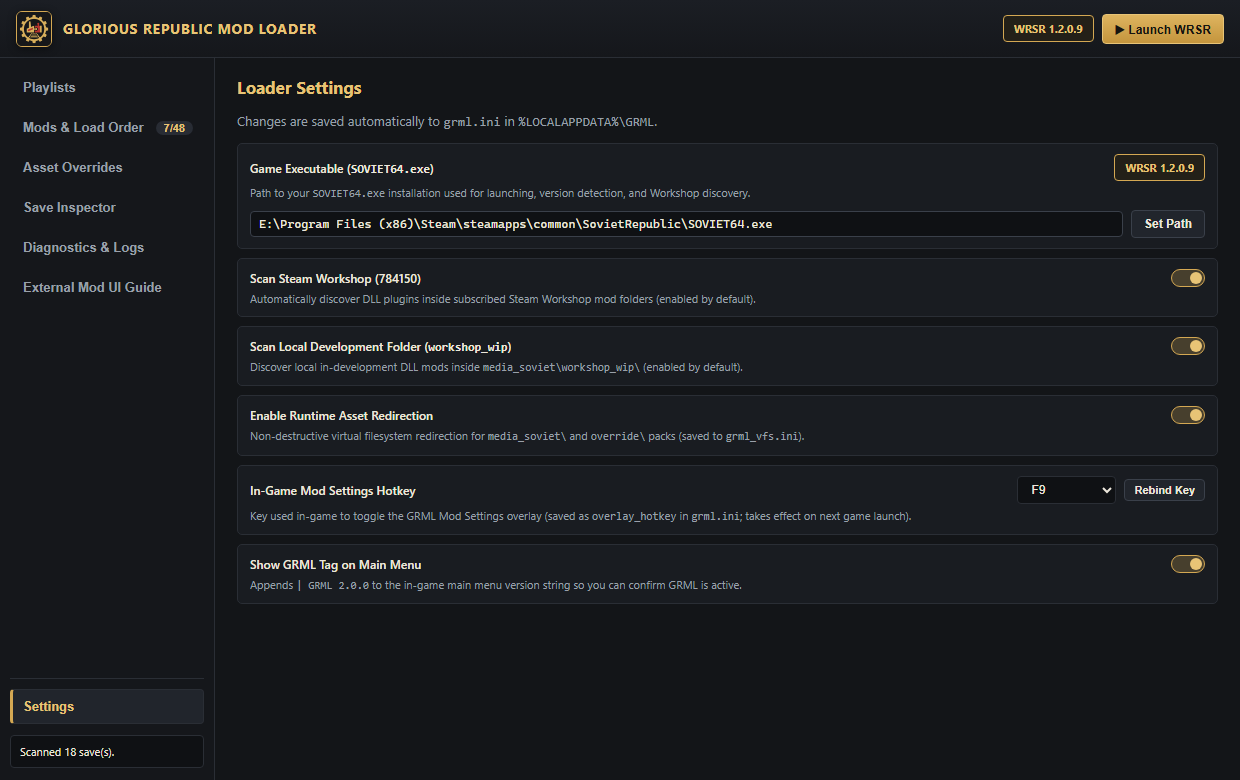
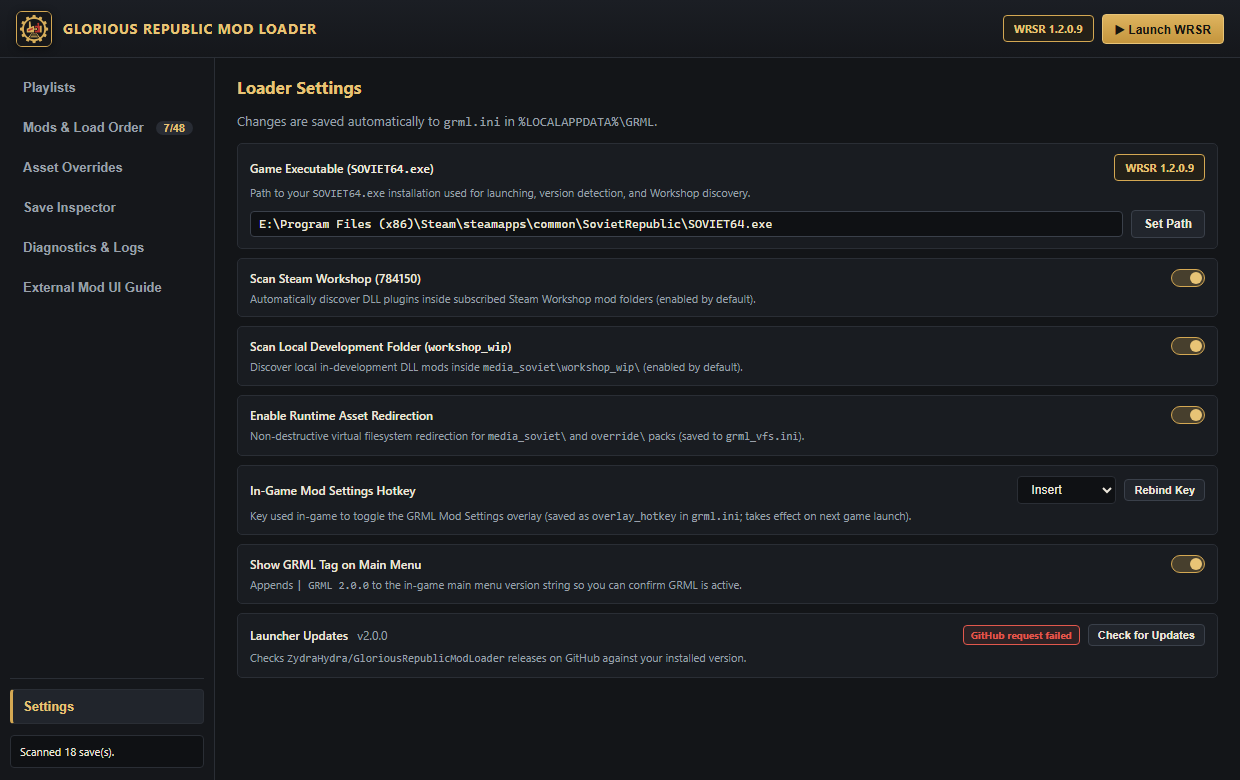
feat: add GitHub Release update check to launcher

Changed region(s): [[0.1839, 0.8, 0.6129, 0.8615], [0.7661, 0.8, 0.9806, 0.8308], [0.8274, 0.6154, 0.8581, 0.6462]]

diff --git a/src/launcher-ui/web/src/lib/views/SettingsView.svelte b/src/launcher-ui/web/src/lib/views/SettingsView.svelte
@@ -1,6 +1,7 @@
 <script lang="ts">
 	import { app } from '$lib/stores/app.svelte';
-	import { Button, PanelCard, Select, TextInput, ToggleSwitch } from '$lib/components/ui';
+	import { openExternalUrl } from '$lib/utils';
+	import { Badge, Button, PanelCard, Select, TextInput, ToggleSwitch } from '$lib/components/ui';
 
 	let listeningHotkey = $state(false);
 
@@ -164,6 +165,43 @@
 			</div>
 			<div class="control-tip">
 				Appends <code>| GRML 2.0.0</code> to the in-game main menu version string so you can confirm GRML is active.
+			</div>
+		</PanelCard>
+
+		<PanelCard>
+			<div class="control-top">
+				<div class="control-label">
+					Launcher Updates
+					{#if app.discovery?.loaderVersion}
+						<span class="muted" style="font-weight:400;margin-left:6px;">v{app.discovery.loaderVersion}</span>
+					{/if}
+				</div>
+				<div style="display:flex;align-items:center;gap:8px;">
+					{#if app.updateInfo?.ok}
+						{#if app.updateInfo.updateAvailable}
+							<Badge variant="grml">Update v{app.updateInfo.latestVersion}</Badge>
+							{#if app.updateInfo.releaseUrl}
+								<Button
+									variant="primary"
+									size="sm"
+									onclick={() => openExternalUrl(app.updateInfo!.releaseUrl!)}
+								>
+									Download ↗
+								</Button>
+							{/if}
+						{:else}
+							<Badge variant="ready">Up to date</Badge>
+						{/if}
+					{:else if app.updateInfo && !app.updateInfo.ok}
+						<Badge variant="warn">{app.updateInfo.error || 'Check failed'}</Badge>
+					{/if}
+					<Button size="sm" disabled={app.checkingUpdate} onclick={() => app.checkForUpdates(true)}>
+						{app.checkingUpdate ? 'Checking...' : 'Check for Updates'}
+					</Button>
+				</div>
+			</div>
+			<div class="control-tip">
+				Checks <code>ZydraHydra/GloriousRepublicModLoader</code> releases on GitHub against your installed version.
 			</div>
 		</PanelCard>
 	</div>

diff --git a/src/launcher-ui/web/src/lib/stores/app.svelte.ts b/src/launcher-ui/web/src/lib/stores/app.svelte.ts
@@ -147,6 +147,18 @@ export interface SavesResponse {
 	saves: SaveEntry[];
 }
 
+export interface UpdateCheckInfo {
+	ok: boolean;
+	currentVersion: string;
+	latestVersion?: string;
+	tagName?: string;
+	releaseName?: string;
+	releaseUrl?: string;
+	updateAvailable?: boolean;
+	noReleases?: boolean;
+	error?: string;
+}
+
 class AppStore {
 	activeView = $state<ViewId>('mods');
 	statusToast = $state('Ready.');
@@ -182,6 +194,11 @@ class AppStore {
 	lastCrashSaveName = $state('');
 	crashBannerVisible = $state(false);
 	launchWatchUntil = $state(0);
+
+	// Update check state
+	updateInfo = $state<UpdateCheckInfo | null>(null);
+	checkingUpdate = $state(false);
+
 	private diagPollInFlight = false;
 	private diagTimer: ReturnType<typeof setInterval> | null = null;
 
@@ -343,6 +360,30 @@ class AppStore {
 				this.pollDiagnostics(false, false);
 			}
 		}, 5000);
+	}
+
+	async checkForUpdates(manual = false) {
+		if (this.checkingUpdate) return;
+		this.checkingUpdate = true;
+		if (manual) this.setStatus('Checking GitHub for updates...');
+		try {
+			const resp = await fetch('/api/check-update');
+			const data = (await resp.json()) as UpdateCheckInfo;
+			this.updateInfo = data;
+			if (manual) {
+				if (!data.ok) {
+					this.setStatus(`Update check failed: ${data.error || 'Offline'}`);
+				} else if (data.updateAvailable) {
+					this.setStatus(`Update available: v${data.latestVersion}`);
+				} else {
+					this.setStatus(`GRML v${data.currentVersion} is up to date.`);
+				}
+			}
+		} catch {
+			if (manual) this.setStatus('Update check failed (offline).');
+		} finally {
+			this.checkingUpdate = false;
+		}
 	}
 
 	async launchWrsr() {

diff --git a/src/launcher-ui/web/src/routes/+page.svelte b/src/launcher-ui/web/src/routes/+page.svelte
@@ -1,6 +1,7 @@
 <script lang="ts">
 	import { onMount } from 'svelte';
 	import { app } from '$lib/stores/app.svelte';
+	import { openExternalUrl } from '$lib/utils';
 	import { Button } from '$lib/components/ui';
 	import PlaylistsView from '$lib/views/PlaylistsView.svelte';
 	import ModsView from '$lib/views/ModsView.svelte';
@@ -39,7 +40,9 @@
 	}
 
 	onMount(() => {
-		app.fetchState();
+		app.fetchState().then(() => {
+			app.checkForUpdates(false);
+		});
 		return () => {
 			if (audioEl) {
 				audioEl.pause();
@@ -103,6 +106,15 @@
 		</div>
 
 		<div class="game-bar">
+			{#if app.updateInfo?.updateAvailable && app.updateInfo.releaseUrl}
+				<Button
+					size="sm"
+					title={`New GRML release v${app.updateInfo.latestVersion} available on GitHub`}
+					onclick={() => openExternalUrl(app.updateInfo!.releaseUrl!)}
+				>
+					Update v{app.updateInfo.latestVersion} ↗
+				</Button>
+			{/if}
 			<span class="pill" title={app.discovery?.gameExe || 'Game executable not detected'}>{verLabel}</span>
 			<Button variant="primary" onclick={() => app.launchWrsr()}>▶ Launch WRSR</Button>
 		</div>

diff --git a/src/launcher/http_server.cpp b/src/launcher/http_server.cpp
@@ -9,6 +9,7 @@
 #include <ws2tcpip.h>
 #include <commdlg.h>
 #include <shellapi.h>
+#include <winhttp.h>
 
 #include <atomic>
 #include <chrono>
@@ -150,6 +151,140 @@ std::string toLowerAscii(std::string s)
         if (c >= 'A' && c <= 'Z') c = static_cast<char>(c + ('a' - 'A'));
     }
     return s;
+}
+
+std::vector<int> parseSemverParts(std::string_view v)
+{
+    if (!v.empty() && (v[0] == 'v' || v[0] == 'V')) v.remove_prefix(1);
+    std::vector<int> parts;
+    size_t i = 0;
+    while (i < v.size()) {
+        if (v[i] < '0' || v[i] > '9') {
+            if (v[i] == '-') break;
+            ++i;
+            continue;
+        }
+        int num = 0;
+        while (i < v.size() && v[i] >= '0' && v[i] <= '9') {
+            num = num * 10 + (v[i] - '0');
+            ++i;
+        }
+        parts.push_back(num);
+    }
+    return parts;
+}
+
+bool isNewerSemver(std::string_view candidate, std::string_view current)
+{
+    const auto a = parseSemverParts(candidate);
+    const auto b = parseSemverParts(current);
+    const size_t n = std::max(a.size(), b.size());
+    for (size_t i = 0; i < n; ++i) {
+        const int av = (i < a.size()) ? a[i] : 0;
+        const int bv = (i < b.size()) ? b[i] : 0;
+        if (av != bv) return av > bv;
+    }
+    return false;
+}
+
+std::string checkGitHubReleaseJson()
+{
+    const std::string curVer = GRML_BUILD_VERSION;
+    const std::wstring ua = L"GloriousRepublicModLoader/" + grml::utf8ToWide(curVer);
+
+    HINTERNET hSession = WinHttpOpen(ua.c_str(), WINHTTP_ACCESS_TYPE_AUTOMATIC_PROXY,
+                                     WINHTTP_NO_PROXY_NAME, WINHTTP_NO_PROXY_BYPASS, 0);
+    if (!hSession) {
+        return "{\"ok\":false,\"currentVersion\":\"" + grml::launcher_api::jsonEscape(curVer) +
+               "\",\"error\":\"WinHttpOpen failed\"}";
+    }
+    WinHttpSetTimeouts(hSession, 4000, 4000, 4000, 5000);
+
+    HINTERNET hConnect = WinHttpConnect(hSession, L"api.github.com", INTERNET_DEFAULT_HTTPS_PORT, 0);
+    if (!hConnect) {
+        WinHttpCloseHandle(hSession);
+        return "{\"ok\":false,\"currentVersion\":\"" + grml::launcher_api::jsonEscape(curVer) +
+               "\",\"error\":\"Failed to connect to GitHub\"}";
+    }
+
+    HINTERNET hRequest = WinHttpOpenRequest(
+        hConnect, L"GET",
+        L"/repos/ZydraHydra/GloriousRepublicModLoader/releases/latest",
+        nullptr, WINHTTP_NO_REFERER, WINHTTP_DEFAULT_ACCEPT_TYPES, WINHTTP_FLAG_SECURE);
+    if (!hRequest) {
+        WinHttpCloseHandle(hConnect);
+        WinHttpCloseHandle(hSession);
+        return "{\"ok\":false,\"currentVersion\":\"" + grml::launcher_api::jsonEscape(curVer) +
+               "\",\"error\":\"WinHttpOpenRequest failed\"}";
+    }
+
+    const wchar_t* hdrs = L"Accept: application/vnd.github+json\r\n";
+    BOOL sent = WinHttpSendRequest(hRequest, hdrs, static_cast<DWORD>(-1L),
+                                   WINHTTP_NO_REQUEST_DATA, 0, 0, 0);
+    if (sent) sent = WinHttpReceiveResponse(hRequest, nullptr);
+
+    DWORD statusCode = 0;
+    DWORD szStatus   = sizeof(statusCode);
+    if (sent) {
+        WinHttpQueryHeaders(hRequest, WINHTTP_QUERY_STATUS_CODE | WINHTTP_QUERY_FLAG_NUMBER,
+                            WINHTTP_HEADER_NAME_BY_INDEX, &statusCode, &szStatus, WINHTTP_NO_HEADER_INDEX);
+    }
+
+    std::string body;
+    if (sent && statusCode == 200) {
+        DWORD avail = 0;
+        while (WinHttpQueryDataAvailable(hRequest, &avail) && avail > 0) {
+            std::string chunk(avail, '\0');
+            DWORD read = 0;
+            if (WinHttpReadData(hRequest, chunk.data(), avail, &read) && read > 0) {
+                chunk.resize(read);
+                body += chunk;
+            } else {
+                break;
+            }
+            if (body.size() > 512 * 1024) break;
+        }
+    }
+
+    WinHttpCloseHandle(hRequest);
+    WinHttpCloseHandle(hConnect);
+    WinHttpCloseHandle(hSession);
+
+    if (!sent) {
+        return "{\"ok\":false,\"currentVersion\":\"" + grml::launcher_api::jsonEscape(curVer) +
+               "\",\"error\":\"GitHub request failed\"}";
+    }
+    if (statusCode == 404) {
+        return "{\"ok\":true,\"currentVersion\":\"" + grml::launcher_api::jsonEscape(curVer) +
+               "\",\"latestVersion\":\"" + grml::launcher_api::jsonEscape(curVer) +
+               "\",\"updateAvailable\":false,\"noReleases\":true,"
+               "\"releaseUrl\":\"https://github.com/ZydraHydra/GloriousRepublicModLoader/releases\"}";
+    }
+    if (statusCode != 200) {
+        return "{\"ok\":false,\"currentVersion\":\"" + grml::launcher_api::jsonEscape(curVer) +
+               "\",\"error\":\"GitHub HTTP " + std::to_string(statusCode) + "\"}";
+    }
+
+    const auto parsed = grml::parseJson(body);
+    if (!parsed || !parsed->isObject()) {
+        return "{\"ok\":false,\"currentVersion\":\"" + grml::launcher_api::jsonEscape(curVer) +
+               "\",\"error\":\"Invalid GitHub response\"}";
+    }
+    std::string tag = parsed->get("tag_name") ? parsed->get("tag_name")->asString() : "";
+    std::string latest = tag;
+    if (!latest.empty() && (latest[0] == 'v' || latest[0] == 'V')) latest.erase(0, 1);
+    const std::string htmlUrl = parsed->get("html_url")
+        ? parsed->get("html_url")->asString()
+        : "https://github.com/ZydraHydra/GloriousRepublicModLoader/releases";
+    const std::string relName = parsed->get("name") ? parsed->get("name")->asString() : tag;
+    const bool newer = !latest.empty() && isNewerSemver(latest, curVer);
+
+    return "{\"ok\":true,\"currentVersion\":\"" + grml::launcher_api::jsonEscape(curVer) +
+           "\",\"latestVersion\":\"" + grml::launcher_api::jsonEscape(latest.empty() ? curVer : latest) +
+           "\",\"tagName\":\"" + grml::launcher_api::jsonEscape(tag) +
+           "\",\"releaseName\":\"" + grml::launcher_api::jsonEscape(relName) +
+           "\",\"releaseUrl\":\"" + grml::launcher_api::jsonEscape(htmlUrl) +
+           "\",\"updateAvailable\":" + std::string(newer ? "true" : "false") + "}";
 }
 
 std::string buildSuspectsJson(const std::vector<std::string>& logTail,
@@ -373,6 +508,8 @@ void handleClient(SOCKET client)
             ",\"logTail\":" + logJson +
             ",\"playlists\":" + playlistsJson + "}";
         sendHttpResponse(client, 200, "OK", "application/json; charset=utf-8", resp);
+    } else if (method == "GET" && path == "/api/check-update") {
+        sendHttpResponse(client, 200, "OK", "application/json; charset=utf-8", checkGitHubReleaseJson());
     } else if (method == "GET" && path == "/api/saves") {
         std::lock_guard lock(g_apiMutex);
         const auto it = query.find("game");
@@ -505,7 +642,8 @@ void handleClient(SOCKET client)
         const auto root = grml::parseJson(body);
         const std::string openUrl = (root && root->get("url")) ? root->get("url")->asString() : "";
         if (openUrl.rfind("https://steamcommunity.com/", 0) != 0 &&
-            openUrl.rfind("steam://url/CommunityFilePage/", 0) != 0) {
+            openUrl.rfind("steam://url/CommunityFilePage/", 0) != 0 &&
+            openUrl.rfind("https://github.com/ZydraHydra/GloriousRepublicModLoader", 0) != 0) {
             sendHttpResponse(client, 400, "Bad Request", "application/json", "{\"ok\":false,\"error\":\"Unsupported URL\"}");
         } else {
             ShellExecuteW(nullptr, L"open", grml::utf8ToWide(openUrl).c_str(), nullptr, nullptr, SW_SHOWNORMAL);
